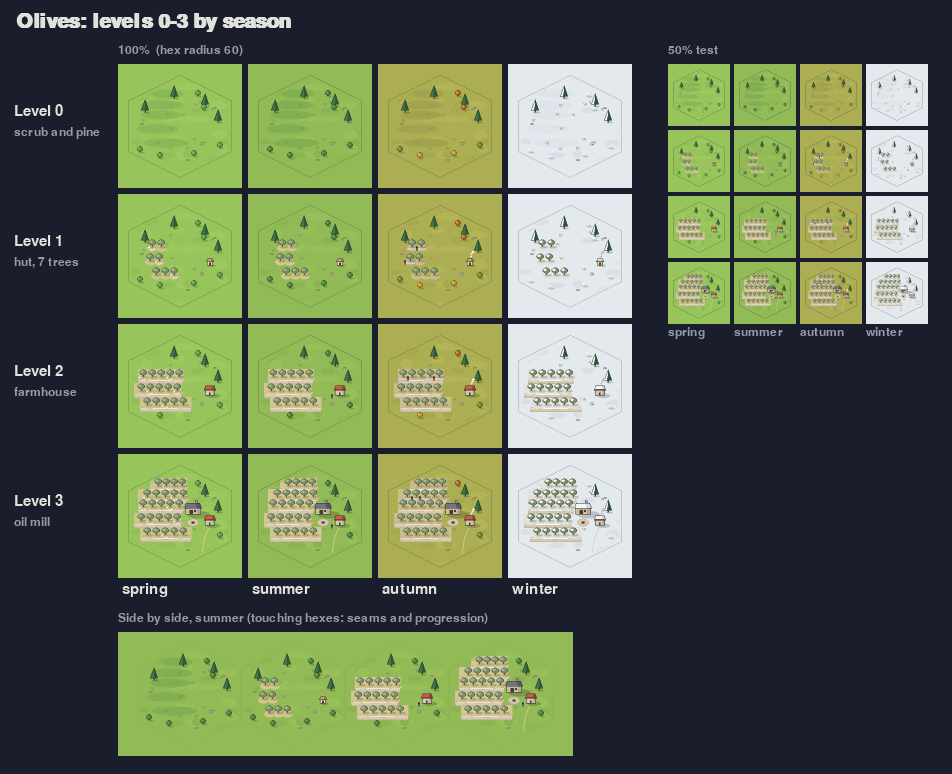
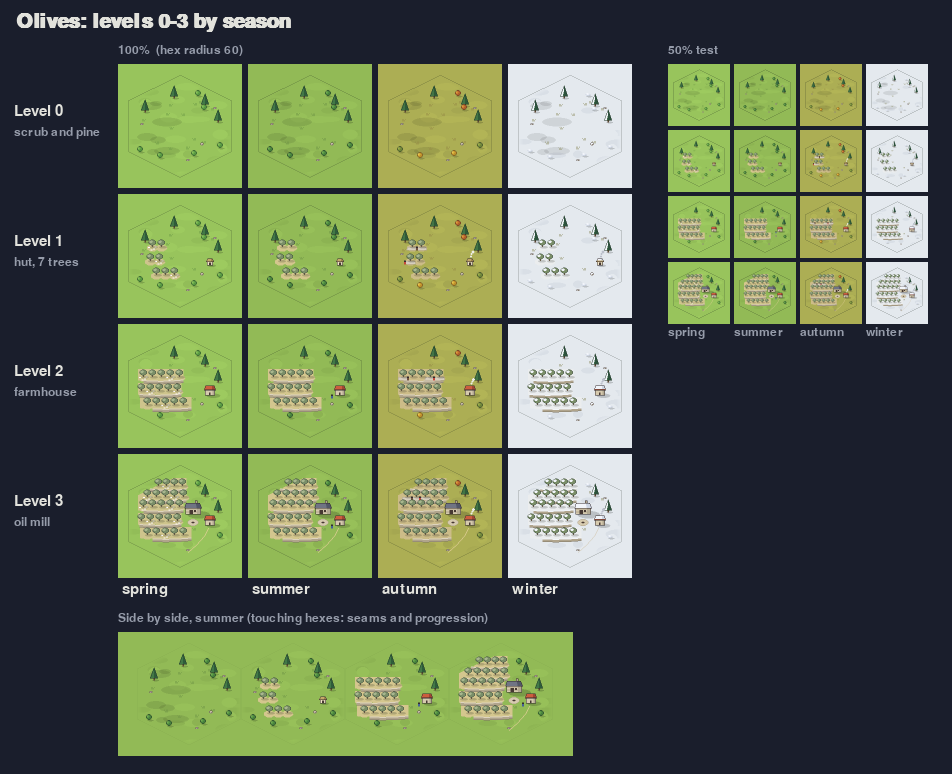
Pieces review fixes: castles and mines (task 1), vineyard and olives (task 2)

diff --git a/tools/worldmap/pieces/mines.py b/tools/worldmap/pieces/mines.py
@@ -31,18 +31,24 @@ OUTCROP_BLOCKS = [
     (1.0, [(-20, 0), (-19, 6), (-14, 9.5), (-8, 10.5), (-2, 8.5), (0, 4), (0.8, 0)], -11),
 ]
 ADIT = (-9, OUTCROP_BASE + 1.6)             # foot of the adit's mouth, in the middle block
-TRACK = [(-9, -18), (-7, -8), (-3, 2), (-1, 14), (-3, 30), (-7, 48)]
-HEAPS = [(-18, -10, 11.5, 6.2, 1), (24, 10, 10.0, 5.6, 2), (16, 19, 9.0, 5.0, 3)]       # x, y, w, h, from level
+TRACK = [(-9, -18), (-7, -8), (-3, 2), (-1, 14), (-3, 30), (-4, 38)]       # ends at the gate point, 13 px inside the border
+GATES = {"south": (-4, 38)}                 # where the map's road layer joins the track
+HEAPS = [(-18, -10, 14.0, 7.5, 1), (24, 10, 10.0, 5.6, 2), (16, 19, 9.0, 5.0, 3)]       # x, y, w, h, from level
 HEADFRAME = (11, 2)                         # foot of the headframe, from level 2
 STREAM = [(52, -14), (44, -11), (36, -6), (33, 0), (36, 7), (43, 12), (52, 18)]
 WHEEL = (34.5, -2.5)                        # foot of the water wheel, on the stream
 SMELTER = (-24, 6)                          # foot of the smelter, from level 3
-ORE_PILE = (-14, 12)                        # from level 3
+ORE_PILE = (-9, 9)                          # from level 3
 # huts become houses in place; the row's third house is new at level 3: x, y, from level
 HOUSES = [(-33, 22, 1), (-21, 22, 2), (-9, 23, 3)]
 BOULDERS = [(-37, 8, 6.0, 4.6, 9), (25, -12, 7.5, 5.4, 9), (7, 27, 6.5, 4.8, 9), (31, 25, 6.8, 5.0, 9)]   # x, y, w, h, gone from level
 CONIFERS = [(36, -15, 0.95, 9), (-40, -8, 0.9, 9)]                                      # x, y, size, gone from level
 WORK_PATCHES = [(-33, 22, 14, 7), (-18, -10, 17, 8), (11, 2, 16, 8), (-24, 6, 20, 9)]    # level 0: darker rock where the work will come
+# the worked yard grows with the level: trodden earth laid over the rock (x, y, w, h, from level)
+YARDS = [(-12, -8, 46, 20, 1), (-31, 20, 18, 8, 1),               # under the adit and the first heap; the hut
+         (12, 4, 40, 22, 2), (-19, 20, 18, 8, 2),                  # under the headframe and its heap; the second hut
+         (-22, 9, 34, 22, 3), (-12, 21, 42, 10, 3)]               # under the smelter; along the row of houses
+YARD_ALPHA = 0.35
 MOSS = [(-28, 12, 14, 6), (18, 24, 16, 7), (22, -24, 12, 5), (-2, 36, 18, 6), (-40, 0, 9, 5)]
 
 
@@ -53,12 +59,13 @@ def boulder(p, x, y, w, h):
 
     def fn(pen):
         hw = w / 2
-        body = [(x - hw, y), (x - hw * 0.85, y - h * 0.55), (x - hw * 0.35, y - h), (x + hw * 0.3, y - h * 0.95),
-                (x + hw * 0.9, y - h * 0.5), (x + hw, y)]
+        body = [(x - hw, y), (x - hw * 0.95, y - h * 0.4), (x - hw * 0.6, y - h * 0.8), (x - hw * 0.2, y - h), (x + hw * 0.3, y - h * 0.92),
+                (x + hw * 0.8, y - h * 0.6), (x + hw, y - h * 0.2), (x + hw * 0.9, y)]
         pen.poly(body, OUTCROP, None)
-        pen.poly([(x + hw * 0.1, y), (x + hw * 0.05, y - h * 0.85), (x + hw * 0.3, y - h * 0.95), (x + hw * 0.9, y - h * 0.5), (x + hw, y)], OUTCROP_D, None)
+        pen.poly([(x + hw * 0.1, y), (x + hw * 0.05, y - h * 0.85), (x + hw * 0.3, y - h * 0.92), (x + hw * 0.8, y - h * 0.6), (x + hw, y - h * 0.2), (x + hw * 0.9, y)], OUTCROP_D, None)
+        pen.line((x - hw * 0.5, y - h * 0.45), (x + hw * 0.05, y - h * 0.15), OUTCROP_D, 0.5)               # a facet line: boulders are lumpy, heaps are smooth
         if winter:
-            pen.poly([(x - hw * 0.8, y - h * 0.62), (x - hw * 0.35, y - h), (x + hw * 0.3, y - h * 0.95), (x + hw * 0.7, y - h * 0.6),
+            pen.poly([(x - hw * 0.8, y - h * 0.62), (x - hw * 0.2, y - h), (x + hw * 0.3, y - h * 0.92), (x + hw * 0.7, y - h * 0.6),
                       (x, y - h * 0.68)], kit.SNOW, None)
         pen.poly(body, None, kit.INK, 0.5)
     p.stand(y, fn)
@@ -83,7 +90,7 @@ def outcrop(p):
                 pen.poly(top + [(x + 0.4, y + 2.6) for x, y in reversed(top)], kit.SNOW, None)
             pen.poly(body, None, kit.INK, 0.5)
             for k in range(1, len(top) - 1, 2):              # cracks
-                pen.line((top[k][0] + 0.6, top[k][1] + 2.4), (top[k][0] + 1.4, base - 0.8), OUTCROP_D if top[k][0] < ridge else kit.INK, 0.5)
+                pen.line((top[k][0] + 0.6, top[k][1] + 2.4), (top[k][0] + 1.4, base - 0.8), OUTCROP_D, 0.5)
         p.stand(base, fn)
 
 
@@ -170,11 +177,8 @@ def smelter(p, x, y):
         pen.poly([(cxm - 2.0, chy), (cxm + 2.0, chy), (cxm + 1.5, chy - h), (cxm - 1.5, chy - h)], None, kit.INK, 0.5)
         if winter:
             pen.line((cxm - 2.0, chy - h - 1.4), (cxm + 2.0, chy - h - 1.4), kit.SNOW, 0.9)
-        # the plume: five puffs drifting to the left, in every season
-        tx, ty = cxm, chy - h - 1.6
-        for dx, dy, r in ((-0.2, -1.6, 1.3), (-1.6, -4.0, 1.7), (-3.0, -6.8, 2.1), (-5.6, -8.8, 2.3), (-8.4, -10.0, 2.2)):
-            pen.circle(tx + dx, ty + dy, r, kit.mix(kit.SMOKE, kit.STONE_GREY_D, 0.6) if winter else kit.SMOKE)
     p.stand(y - 0.5, chimney)
+    p.smoke(cxm, chy - 19.5 - 1.6, always=True, foot=y - 0.5)       # smokes in every season
     p.house(x, y, 12.5, 6.2, 3.8, wall=kit.STONE_GREY, kind="ridge", roof="slate", door=False)
     # the furnace mouth: a dark arch with a red glow, the one warm spot
     p.stand(y + 0.1, lambda pen: (pen.rect(x - 2.0, y - 3.4, 4.0, 3.4, kit.DOOR, None), pen.rect(x - 1.0, y - 1.6, 2.0, 1.4, kit.ROOF, None)))
@@ -186,12 +190,15 @@ def draw(level, season):
     # ---- ground plane
     if level == 0:                                    # wild rock: darker patches where the work will come
         for x, y, w, h in WORK_PATCHES:
-            p.blob(x, y, w, h, kit.shade(p.pal["rock"], 0.9))
+            p.scrub(x, y, w, h, dark=0.10)
+    for x, y, w, h, lo in YARDS:                      # worked ground under each landmark, growing with the level
+        if level >= lo:
+            p.blob(x, y, w, h, p.pal["soil"], alpha=YARD_ALPHA)
     moss = {"spring": (0.62, 0.0), "summer": (0.22, 0.0), "autumn": (0.30, 1.0)}.get(season)
     if moss:                                          # a little green on the rock: fresh in spring, dry and olive in autumn
-        col = kit.mix(p.pal["rock"], kit.mix(p.pal["grass"], (150, 130, 70), moss[1] * 0.6), moss[0])
+        col = kit.mix(p.pal["grass"], (150, 130, 70), moss[1] * 0.6)
         for x, y, w, h in MOSS:
-            p.blob(x, y, w, h, col)
+            p.blob(x, y, w, h, col, alpha=moss[0])
     elif winter:
         for x, y, w, h in MOSS:
             p.snow_patch(x, y, w * 0.8, h * 0.8)
@@ -200,8 +207,6 @@ def draw(level, season):
         p.water(STREAM, 3.0)
     if level >= 1:
         p.road(TRACK, 1.5, track=True)
-        if winter:                                    # the trodden track shows through the snow
-            p.gp.lines(TRACK, kit.mix(p.pal["rock"], p.pal["soil"], 0.55), 1.0)
     p.tufts(10, avoid=[(-9, -18, 14), (11, 2, 14), (-24, 6, 16)])
     if level < 2:
         p.stones([(10, 8, 1.8), (-30, -4, 1.6), (36, 6, 1.5)])

diff --git a/tools/worldmap/pieces/castles.py b/tools/worldmap/pieces/castles.py
@@ -29,13 +29,14 @@ RING_H = 4.0                                         # ring wall height
 FORT_A, FORT_B = 26.0, 16.5                          # level 3: half sizes of the curtain walls, in plan (before the tilt)
 FORT_H = 4.6                                         # fortress wall height
 FORT_T = 3.4                                         # fortress wall thickness (plan)
-MOAT_W = 3.6                                         # visible width of the moat
+MOAT_W = 3.0                                         # visible width of the moat
 TREES = [                                            # x, y, kind, size, gone from level
     (-36, -12, "round", 1.0, 3), (35, -14, "round", 0.95, 3), (29, -20, "round", 0.9, 2),
     (-38, 12, "round", 1.0, 2), (40, 10, "round", 0.9, 3), (-13, -29, "round", 0.85, 9), (12, -29, "round", 0.85, 9),
     (-24, 27, "bush", 1.0, 2), (26, 29, "bush", 1.0, 2), (-31, -6, "bush", 1.0, 2), (5, 32, "bush", 1.0, 3),
     (36, 24, "conifer", 0.9, 2),
 ]
+GATES = {"south": (-5, 36)}                          # where the map's road layer joins the lane (10+ px inside the border)
 STONES = [(-16, 20, 1.8, 2), (20, 18, 1.6, 2), (-32, 6, 1.6, 3)]     # x, y, r, gone from level
 
 
@@ -46,7 +47,7 @@ def _banner(pen, x, y, flag, h=4.6):
     pen.poly([(x, y - h), (x + 3.4, y - h + 0.9), (x, y - h + 1.9)], flag, None)
 
 
-def _tower(pen, winter, x, y, w, h, top="battlement", flag=None, door=True, roof_h=None, slit=False):
+def _tower(pen, winter, x, y, w, h, top="battlement", flag=None, door=True, roof_h=None, slit=False, banner_h=4.6):
     """A stone tower, foot middle at (x, y): lit left, shaded right strip, and a battlement or a slate cone."""
     lit, dk = kit.STONE_GREY, kit.STONE_GREY_D
     x0 = x - w / 2
@@ -80,19 +81,12 @@ def _tower(pen, winter, x, y, w, h, top="battlement", flag=None, door=True, roof
         pen.rect(x - 0.5, y - h * 0.62, 1.0, 2.0, kit.DOOR, None)
         pen.rect(x + w * 0.18, y - h * 0.82, 0.8, 1.6, kit.DOOR, None)
     if flag:
-        _banner(pen, x, apex, flag)
+        _banner(pen, x, apex, flag, banner_h)
 
 
 def add_tower(p, x, y, w, h, top="battlement", flag=None, door=True, roof_h=None, slit=False):
     p.cast(x, y, w + 1)
     p.stand(y, lambda pen: _tower(pen, p.winter, x, y, w, h, top, flag, door, roof_h, slit))
-
-
-def _keep_smoke(pen, x, y):
-    """Smoke from the keep: the kit's puffs are white, which vanishes on snow, so this one is a little greyer."""
-    col = kit.mix(kit.SMOKE, kit.STONE_GREY_D, 0.3)
-    for dx, dy, r in ((0.0, -1.5, 1.0), (0.8, -3.6, 1.3), (2.0, -5.8, 1.6), (3.6, -8.2, 1.9)):
-        pen.circle(x + dx, y + dy, r, col)
 
 
 def mound(p):
@@ -233,18 +227,24 @@ def fort_wall(p, outer, inner, h):
 
 
 def moat(p, outer):
-    """Water on the ground all round the wall: a thick closed line, half of it hidden by the courtyard fill later."""
+    """Water on the ground all round the wall: a thick closed line, half of it hidden by the courtyard fill later.
+    A quiet water (river mixed with the shallow sea), so it reads as water round a wall, not as a blue outline."""
     pts = outer + [outer[0]]
     w = MOAT_W * 2 + 1
-    frozen = p.winter
-    edge = p.pal["river_edge"] if not frozen else kit.ICE_D
-    fill = p.pal["river"] if not frozen else kit.ICE
-    p.gp.lines(pts, edge, w + 1.4)
-    for q in outer:
-        p.gp.ellipse(q[0], q[1], w + 1.4, (w + 1.4) * kit.TILT, edge)
-    p.gp.lines(pts, fill, w)
-    for q in outer:
-        p.gp.ellipse(q[0], q[1], w, w * kit.TILT, fill)
+    if p.winter:
+        edge, fill = kit.ICE_D, kit.ICE
+    else:
+        fill = kit.mix(p.pal["river"], p.pal["shallow"], 0.5)
+        edge = kit.mix(p.pal["river_edge"], fill, 0.5)
+
+    def fn(pen):
+        pen.lines(pts, edge, w + 1.4)
+        for q in outer:
+            pen.ellipse(q[0], q[1], w + 1.4, (w + 1.4) * kit.TILT, edge)
+        pen.lines(pts, fill, w)
+        for q in outer:
+            pen.ellipse(q[0], q[1], w, w * kit.TILT, fill)
+    p.over(fn, 1.0)
 
 
 def draw(level, season, flag=kit.FLAG):
@@ -258,20 +258,21 @@ def draw(level, season, flag=kit.FLAG):
     p.tufts(10 if level == 1 else 6 if level == 2 else 4, avoid=[(CX, CY, 20)])     # first: later levels cover some of them
     if level >= 3:
         moat(p, outer)
-        p.patch(outer, kit.mix(p.pal["grass"], kit.ROAD, 0.45) if not winter else (204, 198, 188))
+        yard = kit.ROAD if not winter else (172, 160, 140)      # the trodden yard: an overlay on whatever ground there is
+        p.over(lambda pen: pen.poly(outer, yard, None), 0.45)
     mound(p)
     gate_y = CY + (RING2[1] if level >= 2 else RING1[1])
     if level == 1:
-        p.road([(CX, gate_y - 1), (CX - 1, gate_y + 8), (CX - 5, 34), (CX - 8, 48)], 1.4, track=True)
+        p.road([(CX, gate_y - 1), (CX - 1, gate_y + 8), GATES["south"]], 1.4, track=True)
     elif level == 2:
-        p.road([(CX, gate_y - 1), (CX - 1, gate_y + 8), (CX - 5, 34), (CX - 8, 48)], 2.0)
+        p.road([(CX, gate_y - 1), (CX - 1, gate_y + 8), GATES["south"]], 2.0)
     else:
-        p.road([(CX, gate_y - 1), (CX, 22), (CX - 4, 36), (CX - 8, 48)], 2.0)
+        p.road([(CX, gate_y - 1), (CX, 22), GATES["south"]], 2.0)
         gy = CY + FORT_B * kit.TILT                        # the bridge over the moat, from the gate tower
         p.patch([(CX - 2.6, gy - 1), (CX + 2.6, gy - 1), (CX + 2.6, gy + MOAT_W + 1.8), (CX - 2.6, gy + MOAT_W + 1.8)], kit.TIMBER, kit.INK, 0.5)
         for k in range(5):
             y = gy + 0.5 + k * 1.7
-            p.gp.line((CX - 2.6, y), (CX + 2.6, y), kit.TIMBER_D, 0.5)
+            p.over(lambda pen, y=y: pen.line((CX - 2.6, y), (CX + 2.6, y), kit.TIMBER_D, 0.5), 1.0)
     p.stones([(x, y, r) for x, y, r, gone in STONES if level < gone])
 
     # ---- standing things
@@ -286,9 +287,9 @@ def draw(level, season, flag=kit.FLAG):
         ring_wall(p, CX, CY, RING2[0], RING2[1])
         keep_h = 14.5
         p.cast(KEEP[0], KEEP[1], 11)
-        p.stand(KEEP[1], lambda pen: _tower(pen, winter, KEEP[0], KEEP[1], 10.0, keep_h, "battlement", flag, True, slit=True))
-        if winter:                                         # the keep smokes in winter only
-            p.stand(KEEP[1] + 30, lambda pen: _keep_smoke(pen, KEEP[0] + 3.6, KEEP[1] - keep_h - 3.4))
+        p.stand(KEEP[1], lambda pen: _tower(pen, winter, KEEP[0], KEEP[1], 10.0, keep_h, "battlement", flag, True, slit=True, banner_h=3.2))
+        if winter:                                         # the keep smokes in winter only (the kit's smoke is grey on snow)
+            p.smoke(KEEP[0] + 3.6, KEEP[1] - keep_h - 3.4, always=False, foot=KEEP[1])
     if level >= 3:
         fort_wall(p, outer, inner, FORT_H)
         gy = CY + FORT_B * kit.TILT

diff --git a/tools/worldmap/pieces/olives.py b/tools/worldmap/pieces/olives.py
@@ -6,6 +6,7 @@ The olive tree is evergreen: its colours never change with the season, only the 
 
 python olives.py           writes docs/design/map/pieces/olives.png
 """
+import math
 import os
 import sys
 
@@ -34,12 +35,40 @@ WILD = [                                                      # x, y, kind, gone
     (18, -30, "bush", 9),
 ]
 STONES = [(22, 18, 1.8, 3), (-38, -2, 1.6, 2), (35, -18, 1.6, 9), (8, 34, 1.6, 9)]
-TRACK = [(28, 12), (24, 22), (22, 34), (24, 48)]
+TRACK = [(28, 12), (24, 20), (16, 29), (8, 36)]
+GATES = {"south": (8, 36)}                            # the track ends here; the map's road layer carries it on
+# level 0: where the shelves will come, a few rough patches of darker scrub (x, y, w, h)
+SCRUB = [(-29, -20, 22, 8), (-24, -22.5, 12, 5), (-13, -4, 30, 9), (-33, 11, 20, 8), (-22, 14, 16, 7), (-13, 25, 26, 8),
+         (-27, 26, 12, 6)]
 
 
 def wall_pts(y, x0, x1):
     n = 8
     return [(x0 + (x1 - x0) * i / n, y + 1.4 * ((i / n - 0.5) ** 2) * -4 + 1.0) for i in range(n + 1)]
+
+
+def clip(pts, shrink=10.0):
+    """The polygon pts cut to the hex pulled in by `shrink` px: ground work keeps 10 px clear of the border (GUIDE C3)."""
+    hx = kit.hex_points(shrink)
+    sgn = 1 if sum(hx[i][0] * hx[(i + 1) % 6][1] - hx[(i + 1) % 6][0] * hx[i][1] for i in range(6)) > 0 else -1
+    out = list(pts)
+    for i in range(6):
+        a, b = hx[i], hx[(i + 1) % 6]
+
+        def side(q):
+            return sgn * ((b[0] - a[0]) * (q[1] - a[1]) - (b[1] - a[1]) * (q[0] - a[0]))
+        src, out = out, []
+        for j, q in enumerate(src):
+            r = src[j - 1]
+            sq, sr = side(q), side(r)
+            if (sq >= 0) != (sr >= 0):
+                t = sr / (sr - sq)
+                out.append((r[0] + (q[0] - r[0]) * t, r[1] + (q[1] - r[1]) * t))
+            if sq >= 0:
+                out.append(q)
+        if not out:
+            break
+    return out
 
 
 def oil_mill(p, x, y):
@@ -73,25 +102,25 @@ def draw(level, season):
     p = kit.Piece(season, ground="grass", seed=3)
     sp, su, au, wi = season == "spring", season == "summer", season == "autumn", season == "winter"
     soil = kit.crop("olive_soil", season)[0]
+    if wi:                                            # the shelves take snow; the walls stay stone
+        soil = kit.mix(soil, kit.SNOW, 0.6)
     trees = [t for t in TREES if t[2] <= level]
     walls = [w for w in WALLS if w[3] <= level]
 
     # ---- ground plane
     if level == 0:                                    # wild land, with darker patches where the groves will come
-        for y, x0, x1, _ in WALLS:
-            p.blob((x0 + x1) / 2, y - 5, (x1 - x0) * 0.9, 9, kit.mix(p.pal["grass"], p.pal["wood"], 0.5))
+        for x, y, w, h in SCRUB:
+            p.scrub(x, y, w, h, dark=0.09)
     for x, y, frm in trees:                           # pale ochre soil under every tree
-        p.blob(x + 0.5, y + 1.5, 11, 6.5, soil)
+        p.patch(clip(ellipse_pts(x + 0.5, y + 1.5, 5.5, 3.25)), soil)
     for y, x0, x1, _ in walls:                        # the terrace strip north of each wall
-        p.patch([(x0, y - 11), (x1, y - 11), (x1, y), (x0, y)], soil)
-    for y, x0, x1, _ in walls:
-        pts = wall_pts(y, x0, x1)
-        p.patch(pts + [(x1, y + 3.6), (x0, y + 3.6)], kit.STONE, kit.STONE_D, 0.5)          # the wall face: never under snow
-        p.patch(pts + [(x1, pts[-1][1] + 0.8), (x0, pts[0][1] + 0.8)], kit.SNOW if wi else (238, 230, 210), None)
+        p.patch(clip([(x0, y - 11), (x1, y - 11), (x1, y), (x0, y)]), soil)
+    for y, x0, x1, _ in walls:                        # the wall: a stone face under a pale top line, never under snow
+        p.terrace([q for q in wall_pts(y, x0, x1) if kit.in_hex(q[0], q[1] + 3, 10)], face=3)
     if level >= 3:
         p.road(TRACK, 1.6, track=True)
-        p.patch(ellipse_pts(*STONE_AT, 5.6, 3.6), kit.STONE, kit.STONE_D, 0.5)                  # the millstone, flat on the ground
-        p.patch(ellipse_pts(STONE_AT[0], STONE_AT[1], 1.5, 1.0), kit.DOOR, None)
+        p.blob(STONE_AT[0], STONE_AT[1], 11.2, 7.2, kit.STONE, edge=kit.STONE_D)                 # the millstone, flat on the ground
+        p.blob(STONE_AT[0], STONE_AT[1], 3.0, 2.0, kit.DOOR)
     avoid = [(MILL[0], MILL[1], 16), (FARM[0], FARM[1], 8)] + [(x, y, 6) for x, y, _ in trees]
     p.tufts(14 if level == 0 else 8 if level == 1 else 4, avoid=avoid if level else ())
     p.stones([(x, y, r) for x, y, r, g in STONES if level < g or g == 9])
@@ -103,7 +132,7 @@ def draw(level, season):
     new = [t for t in trees if t[2] == level]
     if au:                                            # the harvest: pale cloths under three of the newest trees
         for x, y, _ in new[:3]:
-            p.patch([(x - 4.5, y + 0.5), (x + 4.5, y + 0.5), (x + 5.5, y + 3.8), (x - 5.5, y + 3.8)], kit.SAIL_D, kit.STONE_D, 0.5)
+            p.patch(clip([(x - 4.5, y + 0.5), (x + 4.5, y + 0.5), (x + 5.5, y + 3.8), (x - 5.5, y + 3.8)]), kit.SAIL_D, kit.STONE_D, 0.5)
 
     # ---- standing things
     for i, (x, y, kind, gone) in enumerate(WILD):
@@ -130,7 +159,6 @@ def draw(level, season):
 
 
 def ellipse_pts(cx, cy, rx, ry, n=16):
-    import math
     return [(cx + math.cos(2 * math.pi * i / n) * rx, cy + math.sin(2 * math.pi * i / n) * ry) for i in range(n)]
 
 

diff --git a/tools/worldmap/pieces/vineyard.py b/tools/worldmap/pieces/vineyard.py
@@ -19,18 +19,19 @@ NAMES = {0: "scrub", 1: "young vines", 2: "press house", 3: "estate"}
 HUT = (-14, 8)                                        # the hut, later the tiled house: same foot at every level
 PRESS = (3, -2)                                       # the press house (level 2)
 VATS = [(13.5, -0.5), (18.5, 1.8)]
-ESTATE = (-3, -24)                                    # the estate house (level 3)
-TOWER = (-10.5, -24)
-CYPRESS = [(6, -23), (10, -25.5)]
+ESTATE = (-4, -22)                                    # the estate: one broad two-storey ochre house (level 3)
+TOWER = (3.6, -21.4)                                  # its tower stands on the right-hand end, not above the ridge
+CYPRESS = [(9.5, -21), (13.5, -23.5)]
 BLOCKS = [                                            # cx, cy, w, h, angle, rows, from level, shelves (terraces)
     (26, 14, 24, 17, -8, 6, 1, 1),
-    (-26, 22, 22, 15, 6, 5, 1, 1),
-    (28, -9, 24, 16, 18, 6, 2, 1),
-    (-28, -10, 22, 16, -14, 5, 2, 1),
-    (-28, -26, 18, 14, 0, 5, 3, 2),
-    (28, -28, 18, 14, 0, 5, 3, 2),
+    (-21, 21, 18, 12, 6, 5, 1, 1),
+    (27, -7, 22, 15, 18, 6, 2, 1),
+    (-27, -8, 21, 15, -14, 5, 2, 1),
+    (-22, -22, 14, 10, 0, 5, 3, 2),
+    (22, -22, 14, 10, 0, 5, 3, 2),
 ]
-TRACK = [(-12, 11), (-10, 20), (-6, 32), (-4, 46)]
+TRACK = [(-12, 11), (-10, 20), (-6, 32), (-5, 41)]
+GATES = {"south": (-5, 41)}                           # the track ends here; the map's road layer carries it on
 WILD = [                                              # x, y, kind, size, gone from level (9 = never)
     (-26, -26, "bush", 1.0, 3), (28, -27, "bush", 1.0, 3), (-30, -6, "bush", 1.0, 2), (30, 18, "bush", 1.0, 1),
     (-30, 24, "bush", 1.0, 1), (3, -40, "bush", 1.0, 9), (-42, 4, "bush", 1.0, 9), (42, 2, "bush", 1.0, 9),
@@ -103,7 +104,7 @@ def draw(level, season):
     # ---- ground plane
     if level == 0:                                    # wild land, with darker patches where the vines will come
         for b in BLOCKS:
-            p.blob(b[0], b[1], b[2] * 1.1, b[3] * 0.9, kit.mix(p.pal["grass"], p.pal["wood"], 0.5))
+            p.scrub(b[0], b[1], b[2] * 1.1, b[3] * 0.9, dark=0.08)
     if level >= 3:
         p.road(TRACK, 1.6, track=True)
     for b in blocks:
@@ -119,9 +120,7 @@ def draw(level, season):
             p.field(cx, sy, w, sh, ang, strips, n if wi else 1, along=False)
             p.rows(cx, sy, w, sh, ang, n, col=vine, soil=False, lw=1.5)
             ya = sy + sh / 2 * kit.TILT
-            wall = [(cx - w / 2 - 0.5, ya + 0.4), (cx + w / 2 + 0.5, ya + 0.4)]
-            p.patch([wall[0], wall[1], (wall[1][0], wall[1][1] + 2.2), (wall[0][0], wall[0][1] + 2.2)], kit.STONE, kit.STONE_D, 0.5)
-            p.patch([wall[0], wall[1], (wall[1][0], wall[1][1] + 0.7), (wall[0][0], wall[0][1] + 0.7)], kit.SNOW if wi else (236, 228, 208), None)
+            p.terrace([(cx - w / 2 - 0.5, ya + 0.4), (cx + w / 2 + 0.5, ya + 0.4)], face=2)
     avoid = [(b[0], b[1], max(b[2], b[3]) * 0.62) for b in blocks] + [(HUT[0], HUT[1], 8)]
     if level >= 2:
         avoid += [(PRESS[0] + 6, PRESS[1], 14)]
@@ -135,15 +134,15 @@ def draw(level, season):
     if level >= 1:
         if level == 1:
             p.house(HUT[0], HUT[1], 5.5, 3.5, 3.0, wall=0, roof="thatch", smoke=True)
-        else:
-            p.house(HUT[0], HUT[1], 7.5, 4.8, 3.6, wall=0, roof="tile", smoke=True)
+        else:                                         # the hut grows into a house but keeps its thatch: the tile roofs are the press and the estate
+            p.house(HUT[0], HUT[1], 7.5, 4.8, 3.6, wall=0, roof="thatch", smoke=True)
     if level >= 2:
         press_house(p, PRESS[0], PRESS[1])
         for x, y in VATS:
             vat(p, x, y)
     if level >= 3:
-        p.tower(TOWER[0], TOWER[1], 4.4, 11.5, col=kit.PLASTER[3], top="cone", roof=kit.ROOF)
-        p.house(ESTATE[0], ESTATE[1], 12.0, 6.4, 4.4, wall=kit.PLASTER[0], roof="tile")
+        p.house(ESTATE[0], ESTATE[1], 12.0, 6.5, 3.4, wall=kit.PLASTER[1], roof="tile")
+        p.tower(TOWER[0], TOWER[1], 3.6, 8.6, col=kit.PLASTER[1], top="cone", roof=kit.ROOF)
         for i, (x, y) in enumerate(CYPRESS):
             p.tree(x, y, 1.0, "poplar", i)
 
